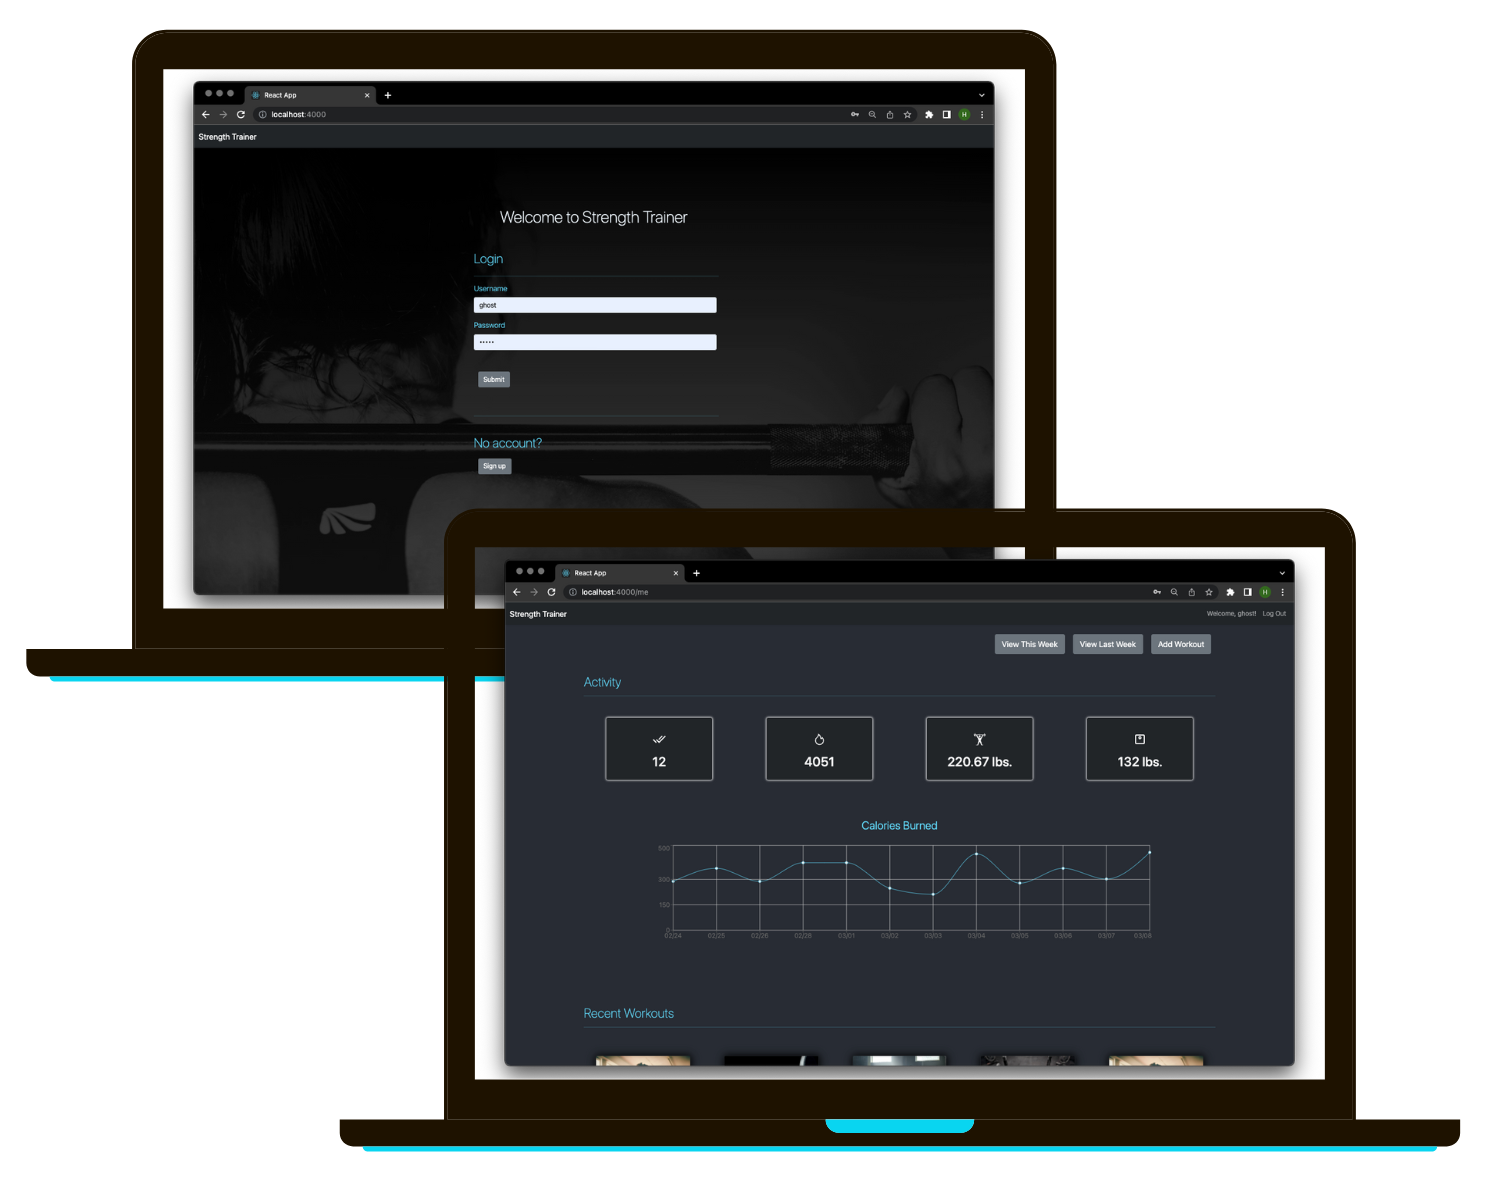
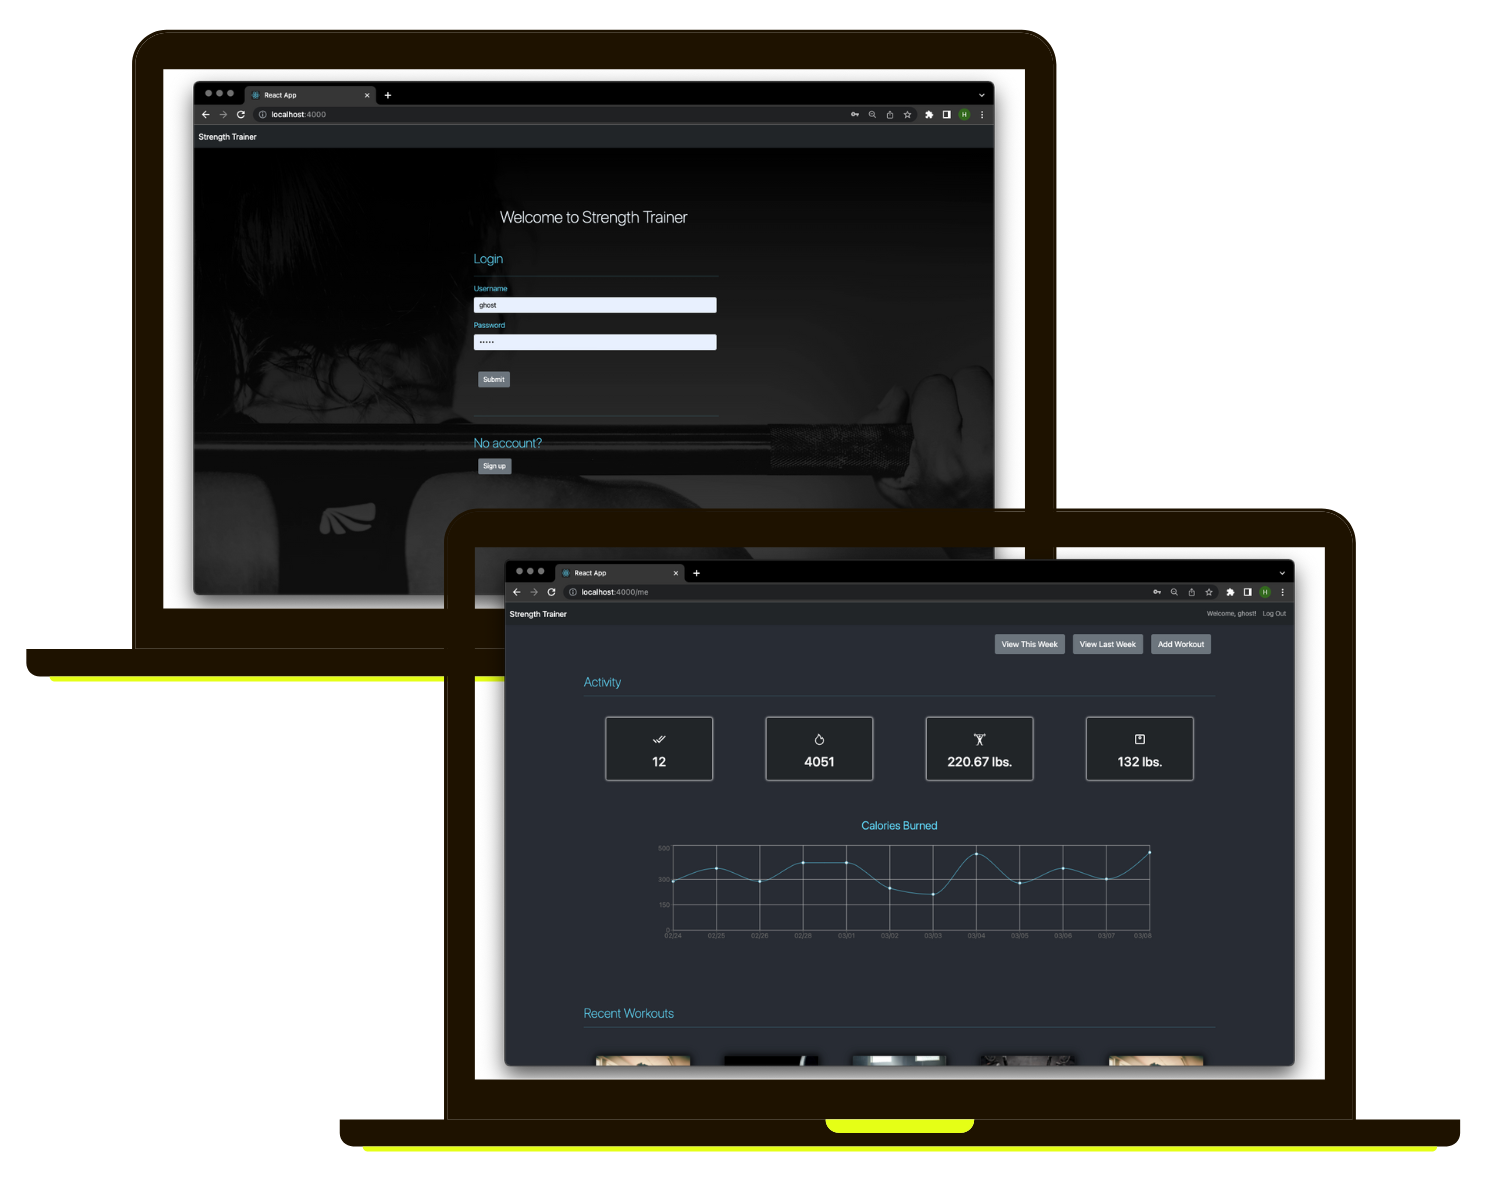
new theme color

Changed region(s): [[0.2453, 0.925, 0.9507, 0.9867], [0.0307, 0.555, 0.3373, 0.5858]]

diff --git a/src/index.css b/src/index.css
@@ -51,13 +51,13 @@ html {
 }
 
 .social-hr {
-  border-left: 0px solid #09d5f0;
+  border-left: 0px solid #E5FF16;
   height: 50px;
   width: 0px;
 }
 
 .project-hr {
-  border-left: 0px solid #09d5f0;
+  border-left: 0px solid #E5FF16;
   height: 100px;
   width: 0px;
   margin-top: 40px;
@@ -76,7 +76,7 @@ a {
 }
 
 a:hover {
-  color: #09d5f0;
+  color: #E5FF16;
   cursor: pointer;
 }
 
@@ -131,7 +131,7 @@ a:active {
 
 hr {
   clear: both;
-  border: 1px solid rgb(9, 213, 240);
+  border: 1px solid #E5FF16;
 }
 
 /* * PROJECTS */
